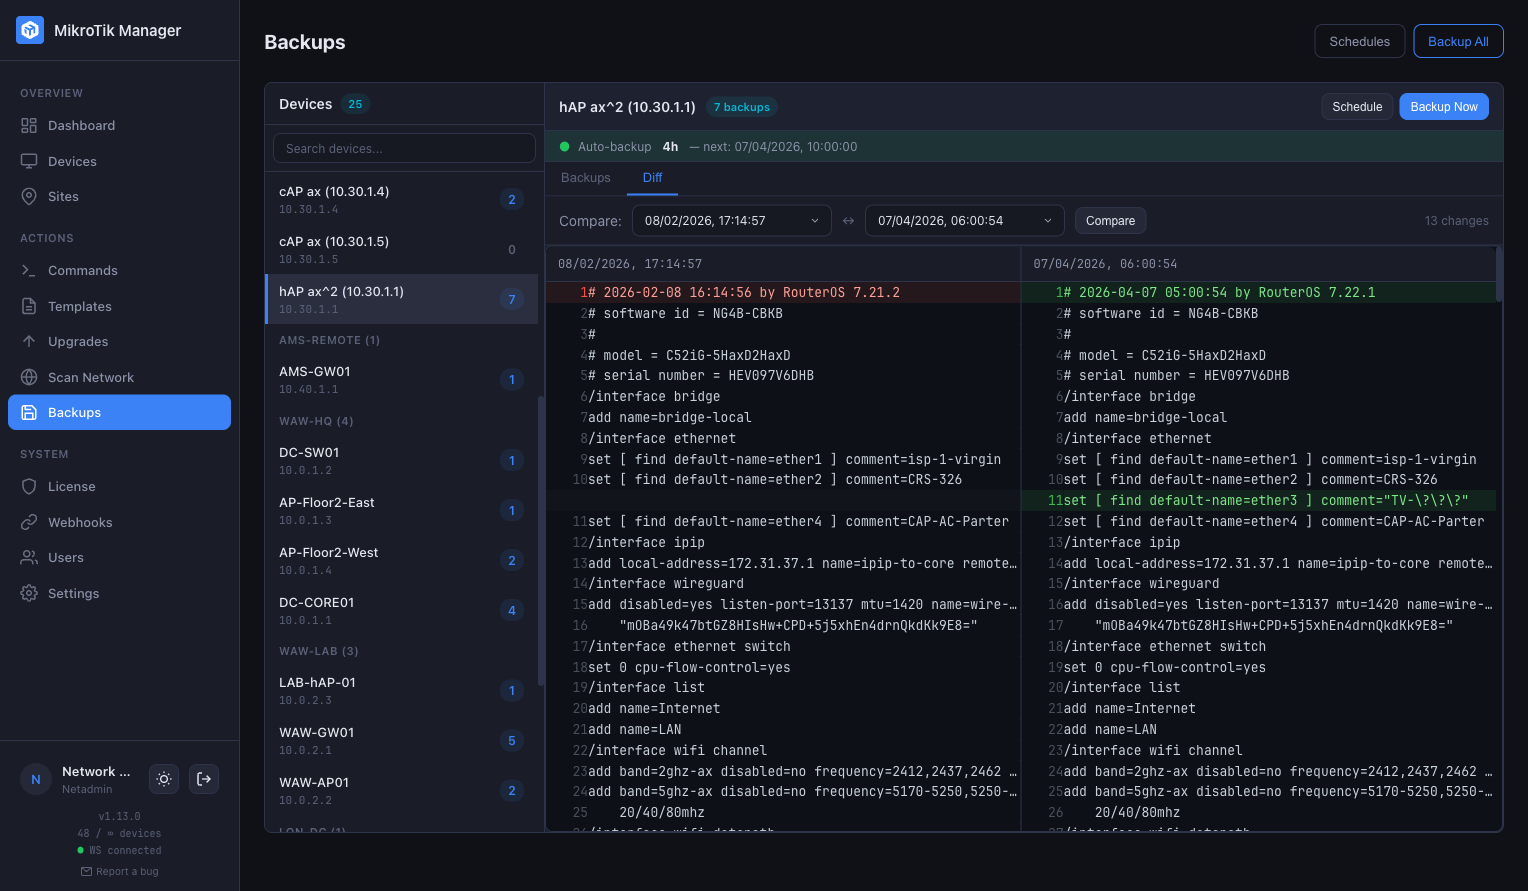
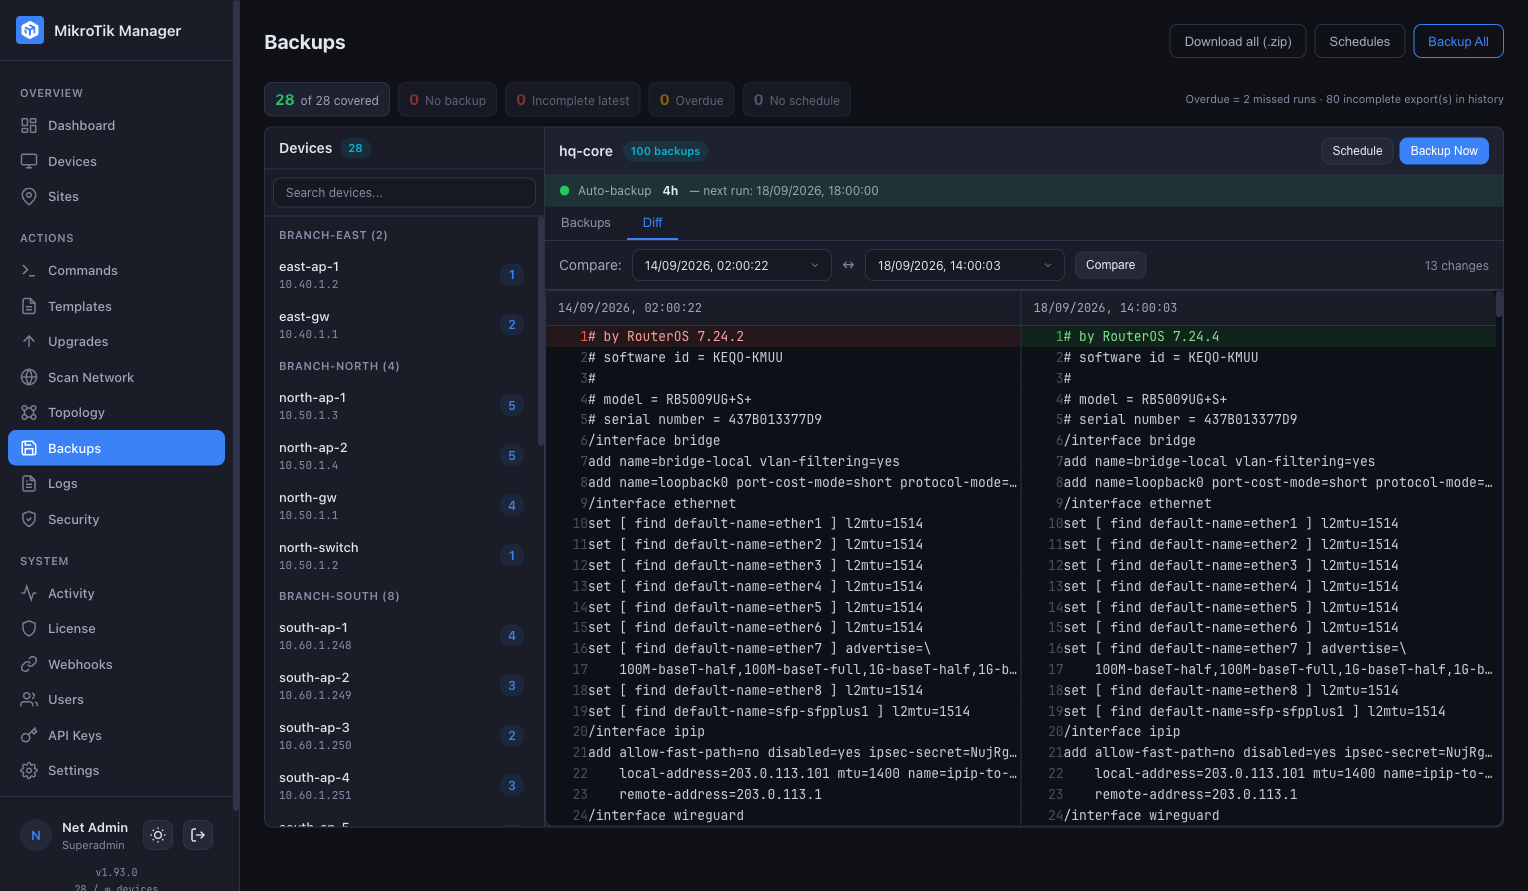
docs: screenshots from the current build, and the Logs page added

diff --git a/README.md b/README.md
@@ -15,15 +15,19 @@ Self-hosted web application for managing MikroTik device fleets. Monitor, config
 <summary>More screenshots</summary>
 
 <p align="center">
-  <img src="screenshots/screenshot-device-detail.png" alt="Device detail — interfaces, PoE, neighbors" width="100%">
+  <img src="screenshots/screenshot-device-detail.png" alt="Device detail — metric cards, PoE budget, port map with VLANs and SFP cages" width="100%">
 </p>
 
 <p align="center">
-  <img src="screenshots/screenshot-upgrades.png" alt="Upgrades — sequential queue, version badges" width="100%">
+  <img src="screenshots/screenshot-upgrades.png" alt="Upgrades — RouterOS and firmware versions per device, with release channel and status" width="100%">
 </p>
 
 <p align="center">
-  <img src="screenshots/screenshot-backups.png" alt="Backups — side-by-side config diff" width="100%">
+  <img src="screenshots/screenshot-backups.png" alt="Backups — side-by-side config diff between two dates" width="100%">
+</p>
+
+<p align="center">
+  <img src="screenshots/screenshot-logs.png" alt="Logs — live syslog stream with site, device, time, severity and topic filters" width="100%">
 </p>
 
 </details>
